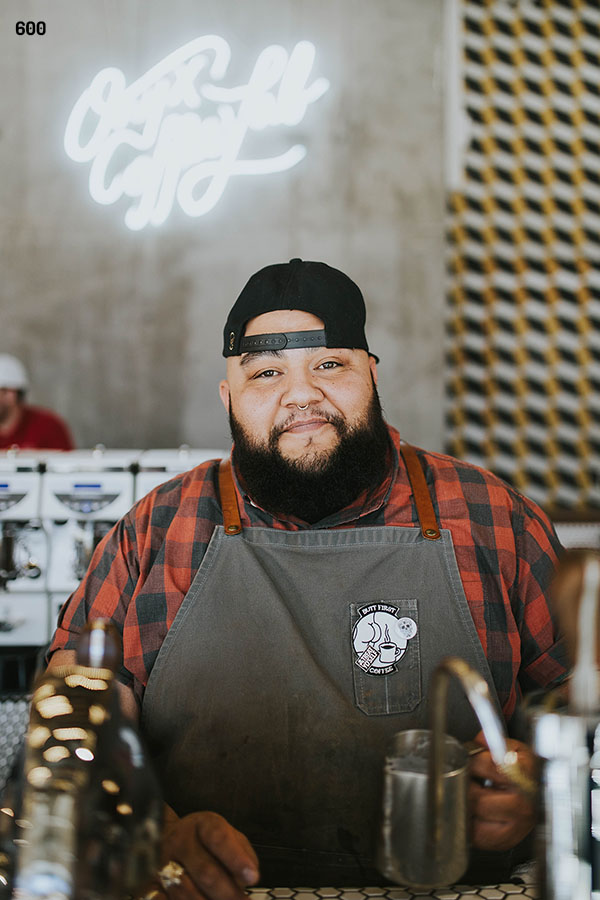
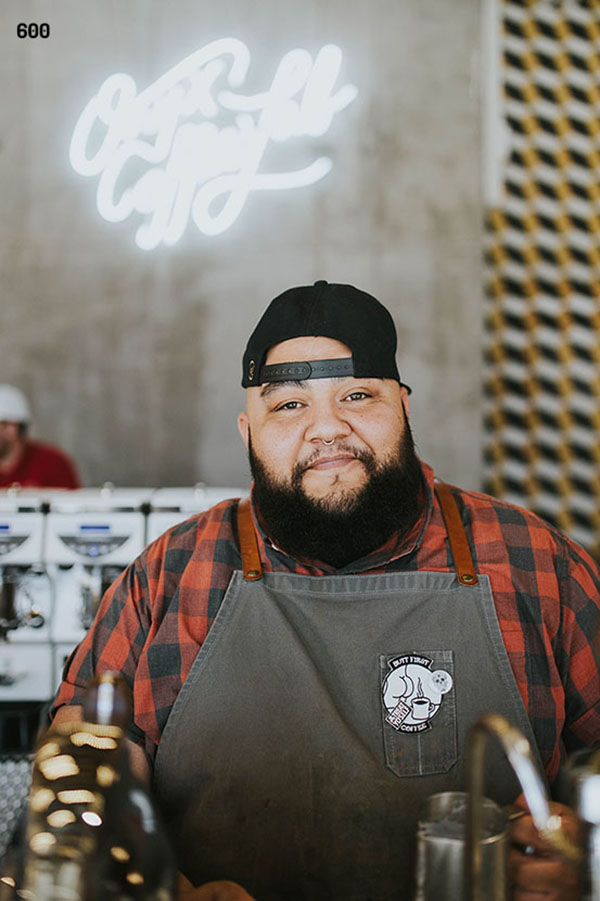
edited founder img and footer

diff --git a/Restaurant/css/styles.min.css b/Restaurant/css/styles.min.css
@@ -1,1 +1,1 @@
-/*! normalize.css v8.0.1 | MIT License | github.com/necolas/normalize.css */html{line-height:1.15;-webkit-text-size-adjust:100%}body{margin:0}main{display:block}h1{font-size:2em;margin:.67em 0}hr{box-sizing:content-box;height:0;overflow:visible}pre{font-family:monospace,monospace;font-size:1em}a{background-color:rgba(0,0,0,0)}abbr[title]{border-bottom:none;text-decoration:underline;-webkit-text-decoration:underline dotted;text-decoration:underline dotted}b,strong{font-weight:bolder}code,kbd,samp{font-family:monospace,monospace;font-size:1em}small{font-size:80%}sub,sup{font-size:75%;line-height:0;position:relative;vertical-align:baseline}sub{bottom:-0.25em}sup{top:-0.5em}img{border-style:none}button,input,optgroup,select,textarea{font-family:inherit;font-size:100%;line-height:1.15;margin:0}button,input{overflow:visible}button,select{text-transform:none}button,[type=button],[type=reset],[type=submit]{-webkit-appearance:button}button::-moz-focus-inner,[type=button]::-moz-focus-inner,[type=reset]::-moz-focus-inner,[type=submit]::-moz-focus-inner{border-style:none;padding:0}button:-moz-focusring,[type=button]:-moz-focusring,[type=reset]:-moz-focusring,[type=submit]:-moz-focusring{outline:1px dotted ButtonText}fieldset{padding:.35em .75em .625em}legend{box-sizing:border-box;color:inherit;display:table;max-width:100%;padding:0;white-space:normal}progress{vertical-align:baseline}textarea{overflow:auto}[type=checkbox],[type=radio]{box-sizing:border-box;padding:0}[type=number]::-webkit-inner-spin-button,[type=number]::-webkit-outer-spin-button{height:auto}[type=search]{-webkit-appearance:textfield;outline-offset:-2px}[type=search]::-webkit-search-decoration{-webkit-appearance:none}::-webkit-file-upload-button{-webkit-appearance:button;font:inherit}details{display:block}summary{display:list-item}template{display:none}[hidden]{display:none}html{-webkit-text-size-adjust:100%;-ms-text-size-adjust:100%}*{box-sizing:border-box}body{font-size:16px;font-family:Verdana,sans-serif}header{padding:0;margin:0;background-color:#fff3e8}header figure.logo{float:left;margin:0 2vw}header h1{margin:0;color:#100007;font-size:x-large;position:absolute;bottom:64rem;padding-left:8rem}header h2{margin:0;font-weight:normal;font-size:large;color:#100007;position:absolute;bottom:62.5rem;padding-left:8rem}nav{background-color:#9b1d20}nav ul{display:none;list-style-type:none;padding:0;margin:0;border-top:solid 1px #100007}nav ul.open{display:block}nav ul li{border-bottom:solid 1px #100007;margin-right:vw}nav ul li a{display:block;background-color:#fcaa67;color:#100007;border-left:1px solid #9b1d20;padding:.5rem 0;text-decoration:none;font-size:.9rem;text-align:center}nav ul li:first-child a{border-left:none}nav ul li a:hover{background-color:#f9dbbd;color:#1b2f33}nav ul li.active a{background-color:#972d07;color:#f9dbbd}nav button{background:rgba(0,0,0,0);border:none;font-size:1.5rem;padding:.5rem;color:#f9dbbd}nav button span:nth-child(1){display:block}nav button span:nth-child(2){display:none}nav button.open span:nth-child(1){display:none}nav button.open span:nth-child(2){display:block}main picture.myphoto{display:block;float:right;max-width:1200px}main img{margin:0;padding:0;width:100%}main h1{color:#1b2f33;font-size:larger;margin-left:.5vw}footer{background-color:#9b1d20;color:#eae2b7;padding:.5rem 2%;text-align:center}.navWrapper:after{content:"";display:table;clear:both}.clearfix:after{content:"";display:table;clear:both}@media only screen and (min-width: 35rem){div.headerWrapper{background-image:url(../images/header-medium.jpg);height:240px}nav button{display:none}nav ul,nav ul.open{border:none;display:flex;justify-content:flex-start;margin-left:2.5vw}nav ul li{border:none;margin:0}nav ul li a{padding:.5rem 1rem}main .card{flex-basis:48%}main h2{margin-left:2.5vw}main P{text-indent:2.5vw;margin-left:1vw}main picture.myphoto{margin:1rem}}@media only screen and (min-width: 60rem){header,nav,main,footer{max-width:64rem;margin:auto}footer{margin-top:11rem}}
+/*! normalize.css v8.0.1 | MIT License | github.com/necolas/normalize.css */html{line-height:1.15;-webkit-text-size-adjust:100%}body{margin:0}main{display:block}h1{font-size:2em;margin:.67em 0}hr{box-sizing:content-box;height:0;overflow:visible}pre{font-family:monospace,monospace;font-size:1em}a{background-color:rgba(0,0,0,0)}abbr[title]{border-bottom:none;text-decoration:underline;-webkit-text-decoration:underline dotted;text-decoration:underline dotted}b,strong{font-weight:bolder}code,kbd,samp{font-family:monospace,monospace;font-size:1em}small{font-size:80%}sub,sup{font-size:75%;line-height:0;position:relative;vertical-align:baseline}sub{bottom:-0.25em}sup{top:-0.5em}img{border-style:none}button,input,optgroup,select,textarea{font-family:inherit;font-size:100%;line-height:1.15;margin:0}button,input{overflow:visible}button,select{text-transform:none}button,[type=button],[type=reset],[type=submit]{-webkit-appearance:button}button::-moz-focus-inner,[type=button]::-moz-focus-inner,[type=reset]::-moz-focus-inner,[type=submit]::-moz-focus-inner{border-style:none;padding:0}button:-moz-focusring,[type=button]:-moz-focusring,[type=reset]:-moz-focusring,[type=submit]:-moz-focusring{outline:1px dotted ButtonText}fieldset{padding:.35em .75em .625em}legend{box-sizing:border-box;color:inherit;display:table;max-width:100%;padding:0;white-space:normal}progress{vertical-align:baseline}textarea{overflow:auto}[type=checkbox],[type=radio]{box-sizing:border-box;padding:0}[type=number]::-webkit-inner-spin-button,[type=number]::-webkit-outer-spin-button{height:auto}[type=search]{-webkit-appearance:textfield;outline-offset:-2px}[type=search]::-webkit-search-decoration{-webkit-appearance:none}::-webkit-file-upload-button{-webkit-appearance:button;font:inherit}details{display:block}summary{display:list-item}template{display:none}[hidden]{display:none}html{-webkit-text-size-adjust:100%;-ms-text-size-adjust:100%}*{box-sizing:border-box}body{font-size:16px;font-family:Verdana,sans-serif}header{padding:0;margin:0;background-color:#fff3e8}header figure.logo{float:left;margin:0 2vw}header h1{margin:0;color:#100007;font-size:x-large;position:absolute;bottom:64rem;padding-left:8rem}header h2{margin:0;font-weight:normal;font-size:large;color:#100007;position:absolute;bottom:62.5rem;padding-left:8rem}nav{background-color:#9b1d20}nav ul{display:none;list-style-type:none;padding:0;margin:0;border-top:solid 1px #100007}nav ul.open{display:block}nav ul li{border-bottom:solid 1px #100007;margin-right:vw}nav ul li a{display:block;background-color:#fcaa67;color:#100007;border-left:1px solid #9b1d20;padding:.5rem 0;text-decoration:none;font-size:.9rem;text-align:center}nav ul li:first-child a{border-left:none}nav ul li a:hover{background-color:#f9dbbd;color:#1b2f33}nav ul li.active a{background-color:#972d07;color:#f9dbbd}nav button{background:rgba(0,0,0,0);border:none;font-size:1.5rem;padding:.5rem;color:#f9dbbd}nav button span:nth-child(1){display:block}nav button span:nth-child(2){display:none}nav button.open span:nth-child(1){display:none}nav button.open span:nth-child(2){display:block}main picture.myphoto{display:block;float:right;max-width:1200px}main img{margin:0;padding:0;width:100%}main h1{color:#1b2f33;font-size:larger;margin-left:.5vw}footer{background-color:#9b1d20;color:#eae2b7;padding:.5rem 2%;text-align:center}.navWrapper:after{content:"";display:table;clear:both}.clearfix:after{content:"";display:table;clear:both}@media only screen and (min-width: 35rem){div.headerWrapper{background-image:url(../images/header-medium.jpg);height:240px}nav button{display:none}nav ul,nav ul.open{border:none;display:flex;justify-content:flex-start;margin-left:2.5vw}nav ul li{border:none;margin:0}nav ul li a{padding:.5rem 1rem}main .card{flex-basis:48%}main h2{margin-left:2.5vw}main P{text-indent:2.5vw;margin-left:1vw}main picture.myphoto{margin:1rem}}@media only screen and (min-width: 60rem){header,nav,main,footer{max-width:64rem;margin:auto}footer{margin-top:7rem}}

diff --git a/Restaurant/css/styles.css b/Restaurant/css/styles.css
@@ -501,6 +501,6 @@ footer {
   /*----------- MAIN --------------*/
   /*----------- FOOTER --------------*/
   footer {
-    margin-top: 11rem;
+    margin-top: 7rem;
   }
 } /* end of media query */

diff --git a/Restaurant/scss/_large.scss b/Restaurant/scss/_large.scss
@@ -19,5 +19,5 @@ header, nav, main, footer {
 
 /*----------- FOOTER --------------*/
 footer{
-    margin-top: 11rem ;
+    margin-top: 7rem ;
 }
